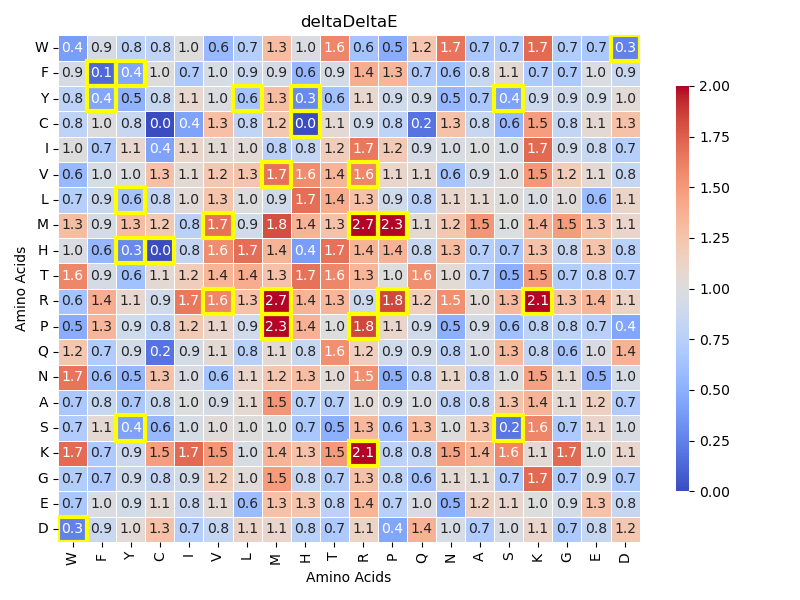
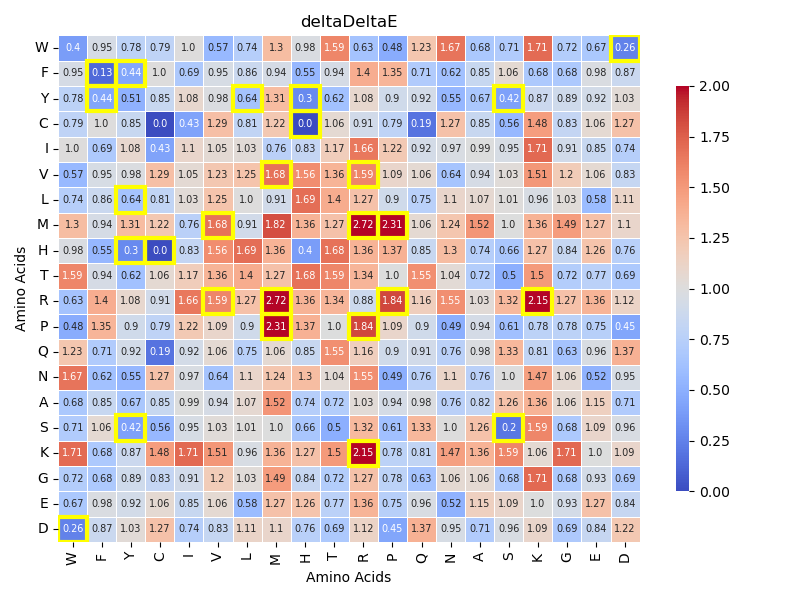
updated figures to use two decimal places in annotation

diff --git a/Sequence_Complexity_and_Discrimination/src/data/Plot_energetics_results_with_permutation.py b/Sequence_Complexity_and_Discrimination/src/data/Plot_energetics_results_with_permutation.py
@@ -146,7 +146,7 @@ class Plotter:
 
             plt.figure(figsize=(8, 6))
             #heatmap = sns.heatmap(df, annot=df.round(decimal=1).astype(str)), fmt="", cmap="coolwarm", vmin=-60, vmax=60, linewidths=.5, cbar_kws={"shrink": .8, "aspect": 30})
-            heatmap = sns.heatmap(df, annot=df.round(decimals=1).astype(str), fmt="", cmap="coolwarm", vmin=0, vmax=2, linewidths=.5, cbar_kws={"shrink": .8, "aspect": 30})
+            heatmap = sns.heatmap(df, annot=df.round(decimals=2).astype(str), fmt="", cmap="coolwarm", vmin=0, vmax=2, linewidths=.5, cbar_kws={"shrink": .8, "aspect": 30}, annot_kws={"fontsize": 7})
 
             # if there is a valid pvalue dataframe color those with values below 0.05 in a yellow highlight
             if isinstance(pvalues_df, pd.DataFrame):
